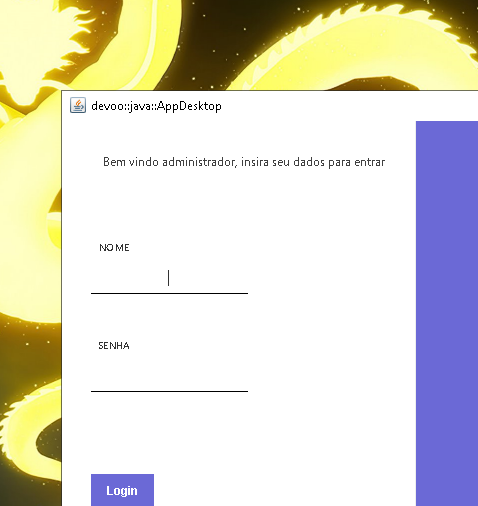
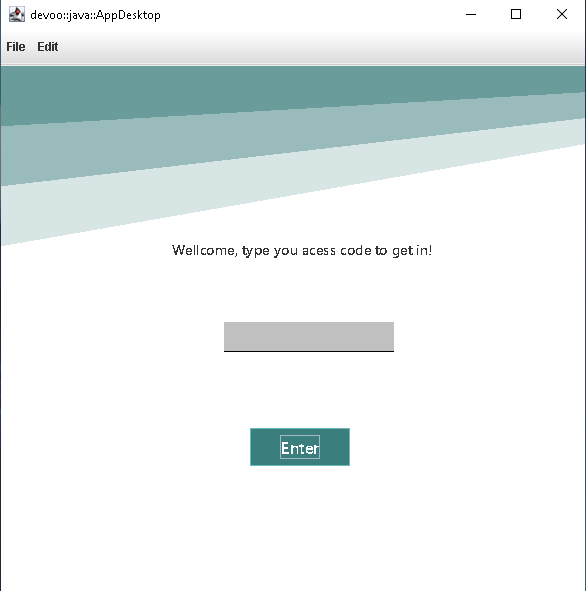
update project

diff --git a/src/view/InitialPanel.java b/src/view/InitialPanel.java
@@ -1,128 +1,130 @@
 package view;
 
+import javax.swing.JPanel;
+import javax.swing.Timer;
+
 import java.awt.Color;
-import java.awt.Font;
-import java.awt.Rectangle;
-import java.awt.SystemColor;
+import java.awt.Graphics;
+import java.awt.Graphics2D;
+import java.awt.event.ActionEvent;
+import java.awt.event.ActionListener;
+
 import javax.swing.GroupLayout;
 import javax.swing.GroupLayout.Alignment;
-import javax.swing.JButton;
 import javax.swing.JLabel;
-import javax.swing.JPanel;
-import javax.swing.JPasswordField;
-import javax.swing.JTextField;
-import javax.swing.LayoutStyle.ComponentPlacement;
+import javax.swing.JButton;
 import javax.swing.SwingConstants;
+import java.awt.Font;
 import javax.swing.border.MatteBorder;
+import java.awt.Dimension;
+import javax.swing.JPasswordField;
 
 
-public class InitialPanel extends JPanel {
+
+public class InitialPanel extends JPanel implements ActionListener {
 
 	private static final long serialVersionUID = 1L;
-	public  JPanel loginPanel;
-	public JPanel asidePanel;
-	private JTextField inpt_nome;
-	private JPasswordField inpt_senha;
-
-	/**
-	 * Create the panel.
-	 */
+    private int x = 0;
+    private Timer timer;
+    int xs[];
+    int ys[];
+    private JPasswordField codeForm;
+    
+    public void reRenderForm() {
+    	
+    }
 	
-	public void resizePanel(Rectangle d) {
-		setBounds(0, 0, d.width, d.height);
-		loginPanel.setBounds(0, 0, 353, d.height);
-		asidePanel.setBounds(loginPanel.getWidth() + 1, 0, this.getWidth() - loginPanel.getWidth(), d.height);
-	}
-	
-	public InitialPanel(int width, int height) {
-		setLayout(null);
+	public InitialPanel() {
+		setBackground(new Color(255, 255, 255));
 		setBounds(0, 0, 600, 600);
 		
-		loginPanel = new JPanel();
-		loginPanel.setBackground(Color.WHITE);
-		loginPanel.setBounds(0, 0, 353, this.getHeight());
+		timer = new Timer(25, this); // Configura o timer para chamar actionPerformed a cada 30 milissegundos
+		setLayout(null);
 		
-		asidePanel = new JPanel();
-		asidePanel.setBackground(SystemColor.desktop);
-		asidePanel.setBounds(loginPanel.getWidth() + 1, 0, this.getWidth() - loginPanel.getWidth(), this.getHeight());
+		JPanel panel = new JPanel();
+		panel.setOpaque(false);
+		panel.setBounds(147, 124, 305, 352);
+		add(panel);
 		
+		JLabel formLabel = new JLabel(" Wellcome, type you acess code to get in!");
+		formLabel.setFont(new Font("Yu Gothic UI Semilight", Font.BOLD, 14));
+		formLabel.setHorizontalAlignment(SwingConstants.CENTER);
 		
+		codeForm = new JPasswordField();
+		codeForm.setHorizontalAlignment(SwingConstants.CENTER);
+		codeForm.setMinimumSize(new Dimension(170, 30));
+		codeForm.setMaximumSize(new Dimension(170, 30));
+		codeForm.setBorder(new MatteBorder(0, 0, 1, 0, (Color) new Color(0, 0, 0)));
+		codeForm.setBackground(Color.LIGHT_GRAY);
+		codeForm.setColumns(10);
 		
-		JLabel lbl_loginTitulo = new JLabel("Bem vindo administrador, insira seu dados para entrar");
-		lbl_loginTitulo.setForeground(Color.DARK_GRAY);
-		lbl_loginTitulo.setFont(new Font("Yu Gothic UI Semilight", Font.PLAIN, 12));
-		lbl_loginTitulo.setHorizontalAlignment(SwingConstants.CENTER);
-		
-		JLabel lbl_loginNome = new JLabel("NOME");
-		lbl_loginNome.setFont(new Font("Yu Gothic UI Semilight", Font.BOLD, 10));
-		lbl_loginNome.setHorizontalAlignment(SwingConstants.CENTER);
-		
-		inpt_nome = new JTextField();
-		inpt_nome.setBorder(new MatteBorder(0, 0, 1, 0, (Color) new Color(0, 0, 0)));
-		inpt_nome.setToolTipText("Insira seu nome de adminisrtador");
-		inpt_nome.setHorizontalAlignment(SwingConstants.CENTER);
-		inpt_nome.setFont(new Font("Segoe UI Emoji", Font.PLAIN, 14));
-		inpt_nome.setColumns(10);
-		
-		JLabel lbl_loginSenha = new JLabel("SENHA");
-		lbl_loginSenha.setHorizontalAlignment(SwingConstants.CENTER);
-		lbl_loginSenha.setFont(new Font("Yu Gothic UI Semilight", Font.BOLD, 10));
-		
-		inpt_senha = new JPasswordField();
-		inpt_senha.setBorder(new MatteBorder(0, 0, 1, 0, (Color) new Color(0, 0, 0)));
-		inpt_senha.setHorizontalAlignment(SwingConstants.CENTER);
-		inpt_senha.setFont(new Font("Segoe UI Emoji", Font.PLAIN, 14));
-		inpt_senha.setEchoChar('#');
-		
-		JButton btn_login = new JButton("Login");
-		btn_login.setBorder(null);
-		btn_login.setBackground(SystemColor.desktop);
-		btn_login.setForeground(Color.WHITE);
-		
-		JButton btnNewButton_1 = new JButton("New button");
-		GroupLayout gl_loginPanel = new GroupLayout(loginPanel);
-		gl_loginPanel.setHorizontalGroup(
-			gl_loginPanel.createParallelGroup(Alignment.LEADING)
-				.addGroup(gl_loginPanel.createSequentialGroup()
-					.addContainerGap()
-					.addComponent(lbl_loginTitulo, GroupLayout.DEFAULT_SIZE, 341, Short.MAX_VALUE))
-				.addGroup(gl_loginPanel.createSequentialGroup()
-					.addGap(29)
-					.addComponent(btnNewButton_1)
-					.addContainerGap(226, Short.MAX_VALUE))
-				.addGroup(gl_loginPanel.createSequentialGroup()
-					.addGap(29)
-					.addGroup(gl_loginPanel.createParallelGroup(Alignment.LEADING)
-						.addComponent(lbl_loginSenha, GroupLayout.PREFERRED_SIZE, 46, GroupLayout.PREFERRED_SIZE)
-						.addComponent(lbl_loginNome, GroupLayout.PREFERRED_SIZE, 46, GroupLayout.PREFERRED_SIZE)
-						.addComponent(inpt_senha, GroupLayout.PREFERRED_SIZE, 157, GroupLayout.PREFERRED_SIZE)
-						.addComponent(inpt_nome, GroupLayout.PREFERRED_SIZE, 157, GroupLayout.PREFERRED_SIZE)
-						.addComponent(btn_login, GroupLayout.PREFERRED_SIZE, 63, GroupLayout.PREFERRED_SIZE))
-					.addContainerGap(167, Short.MAX_VALUE))
+		JButton buttonForm = new JButton("Enter");
+		buttonForm.setFont(new Font("Yu Gothic UI Semilight", Font.BOLD, 16));
+		buttonForm.setForeground(Color.WHITE);
+		buttonForm.setBackground(new Color(58, 126, 126));
+		buttonForm.setBorder(new MatteBorder(1, 1, 1, 1, (Color) new Color(109, 188, 188)));
+		GroupLayout gl_panel = new GroupLayout(panel);
+		gl_panel.setHorizontalGroup(
+			gl_panel.createParallelGroup(Alignment.LEADING)
+				.addGroup(gl_panel.createSequentialGroup()
+					.addGroup(gl_panel.createParallelGroup(Alignment.LEADING)
+						.addGroup(gl_panel.createSequentialGroup()
+							.addGap(102)
+							.addComponent(buttonForm, GroupLayout.PREFERRED_SIZE, 100, GroupLayout.PREFERRED_SIZE))
+						.addGroup(gl_panel.createSequentialGroup()
+							.addGap(76)
+							.addComponent(codeForm, GroupLayout.PREFERRED_SIZE, 170, GroupLayout.PREFERRED_SIZE))
+						.addGroup(Alignment.TRAILING, gl_panel.createSequentialGroup()
+							.addContainerGap()
+							.addComponent(formLabel, GroupLayout.DEFAULT_SIZE, 281, Short.MAX_VALUE)))
+					.addContainerGap())
 		);
-		gl_loginPanel.setVerticalGroup(
-			gl_loginPanel.createParallelGroup(Alignment.LEADING)
-				.addGroup(gl_loginPanel.createSequentialGroup()
-					.addGap(32)
-					.addComponent(lbl_loginTitulo)
-					.addGap(67)
-					.addComponent(lbl_loginNome, GroupLayout.PREFERRED_SIZE, 22, GroupLayout.PREFERRED_SIZE)
-					.addPreferredGap(ComponentPlacement.RELATED)
-					.addComponent(inpt_nome, GroupLayout.PREFERRED_SIZE, 30, GroupLayout.PREFERRED_SIZE)
-					.addGap(40)
-					.addComponent(lbl_loginSenha, GroupLayout.PREFERRED_SIZE, 22, GroupLayout.PREFERRED_SIZE)
-					.addPreferredGap(ComponentPlacement.RELATED)
-					.addComponent(inpt_senha, GroupLayout.PREFERRED_SIZE, 30, GroupLayout.PREFERRED_SIZE)
-					.addGap(82)
-					.addComponent(btn_login, GroupLayout.PREFERRED_SIZE, 33, GroupLayout.PREFERRED_SIZE)
-					.addGap(54)
-					.addComponent(btnNewButton_1)
-					.addGap(33))
+		gl_panel.setVerticalGroup(
+			gl_panel.createParallelGroup(Alignment.LEADING)
+				.addGroup(gl_panel.createSequentialGroup()
+					.addGap(49)
+					.addComponent(formLabel)
+					.addGap(63)
+					.addComponent(codeForm, GroupLayout.PREFERRED_SIZE, 30, GroupLayout.PREFERRED_SIZE)
+					.addGap(76)
+					.addComponent(buttonForm, GroupLayout.PREFERRED_SIZE, 38, GroupLayout.PREFERRED_SIZE)
+					.addGap(78))
 		);
-		loginPanel.setLayout(gl_loginPanel);
-		
-		add(loginPanel);
-		add(asidePanel);
-
+		panel.setLayout(gl_panel);
+        timer.start(); // Inicia o timer
+        
+        xs = new int[]{0, getWidth(), getWidth(), 0};
+        ys = new int[]{0, 0, 25,60};
 	}
+	
+    @Override
+    protected void paintComponent(Graphics g) {
+        super.paintComponent(g);
+        Graphics2D graphic = (Graphics2D) g;
+
+        // Define a cor e desenha um círculo que se move horizontalmente
+        graphic.setColor(new Color(0.23f, 0.49f, 0.49f, 0.5f));
+        ys[2] = 25;
+        ys[3] = 60;
+        graphic.fillPolygon(xs, ys, 4);
+        graphic.setColor(new Color(0.23f, 0.49f, 0.49f, 0.4f));
+        ys[2] = 50;
+        ys[3] = 120;
+        graphic.fillPolygon(xs, ys, 4);
+        graphic.setColor(new Color(0.23f, 0.49f, 0.49f, 0.2f));
+        ys[2] = 75;
+        ys[3] = 180;
+        graphic.fillPolygon(xs, ys, 4);
+    }
+
+    @Override
+    public void actionPerformed(ActionEvent e) {
+        xs[1] = getWidth();
+        xs[2] = getWidth();
+    	x += 5; // Move o círculo 5 pixels para a direita
+        if (x > getWidth()) {
+            x = -50; // Reseta a posição quando o círculo sai da tela
+        }
+        repaint(); // Solicita uma repintura do painel
+    }
 }

diff --git a/src/view/App.java b/src/view/App.java
@@ -1,16 +1,23 @@
 package view;
 
+import java.awt.CardLayout;
+import java.awt.Color;
 import java.awt.EventQueue;
+
 import javax.swing.JFrame;
+import javax.swing.JMenuBar;
 import javax.swing.JPanel;
-import javax.swing.border.EmptyBorder;
 import java.awt.event.ComponentAdapter;
 import java.awt.event.ComponentEvent;
+import javax.swing.JMenu;
 
 public class App extends JFrame {
 
 	private static final long serialVersionUID = 1L;
 	private JPanel rootPane;
+	private JMenuBar menuBar;
+	private JPanel cardPanel;
+	private InitialPanel panel; 
 
 	public static void main(String[] args) {
 		EventQueue.invokeLater(() -> {
@@ -27,22 +34,58 @@ public class App extends JFrame {
 	/**
 	 * Create the frame.
 	 */
+	private void init() {
+		rootPane = new JPanel();
+		menuBar = new JMenuBar();
+		cardPanel = new JPanel(new CardLayout());
+		panel = new InitialPanel();
+	}
+	
+	@SuppressWarnings("unused")
+	private void initMenus() {
+		//TODO
+	}
+	
 	public App() {
-		
-		setDefaultCloseOperation(JFrame.EXIT_ON_CLOSE);
-		setBounds(100, 100, 600, 600);
-		setTitle("devoo::java::AppDesktop");
-		rootPane = new InitialPanel(this.getWidth(),  this.getHeight());
-		rootPane.setBorder(new EmptyBorder(5, 5, 5, 5));
-
-		setContentPane(rootPane);
+		setBackground(new Color(51, 102, 102));
 		
 		addComponentListener(new ComponentAdapter() {
 			@Override
 			public void componentResized(ComponentEvent e) {
-				((InitialPanel)rootPane).resizePanel(getBounds());
+				menuBar.setBounds(0, 0, getWidth(), 35);
+				cardPanel.setBounds(0, 36, getWidth(), getHeight() - menuBar.getHeight());
+				panel.setBounds(0, 0, cardPanel.getWidth(), cardPanel.getHeight());
 			}
 		});
+		
+		setDefaultCloseOperation(JFrame.EXIT_ON_CLOSE);
+		setBounds(100, 100, 600, 600);
+		setTitle("devoo::java::AppDesktop");
+		
+		init();
+		
+		
+		rootPane.setLayout(null);
+		
+		menuBar.setBounds(0, 0, getWidth(), 35);
+		
+		cardPanel.setLayout(null);
+		cardPanel.setBounds(0, 35, getWidth(), getHeight() - menuBar.getHeight());
+		cardPanel.add(panel);
+		
+		panel.setBounds(0, 0, 584, 525);
+		
+		setContentPane(rootPane);
+		
+		rootPane.add(menuBar);
+		
+		JMenu menuFile = new JMenu("File");
+		JMenu menuEdit = new JMenu("Edit");
+		menuBar.add(menuFile);
+		menuBar.add(menuEdit);
+		
+		rootPane.add(cardPanel);
+		
+		
 	}
-
 }
